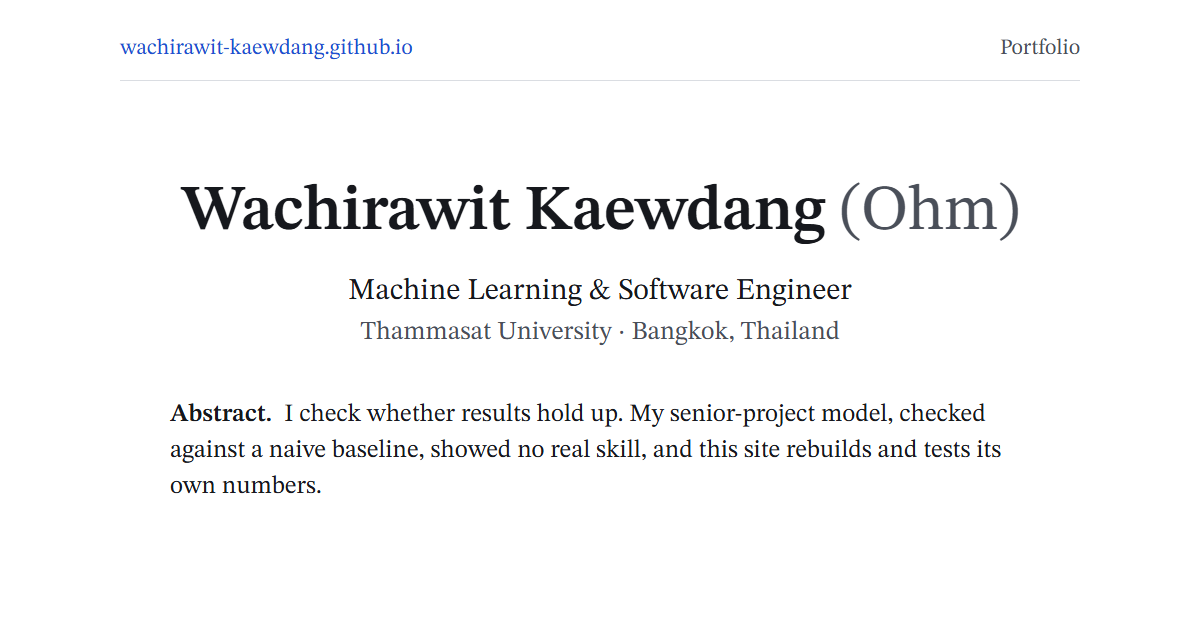
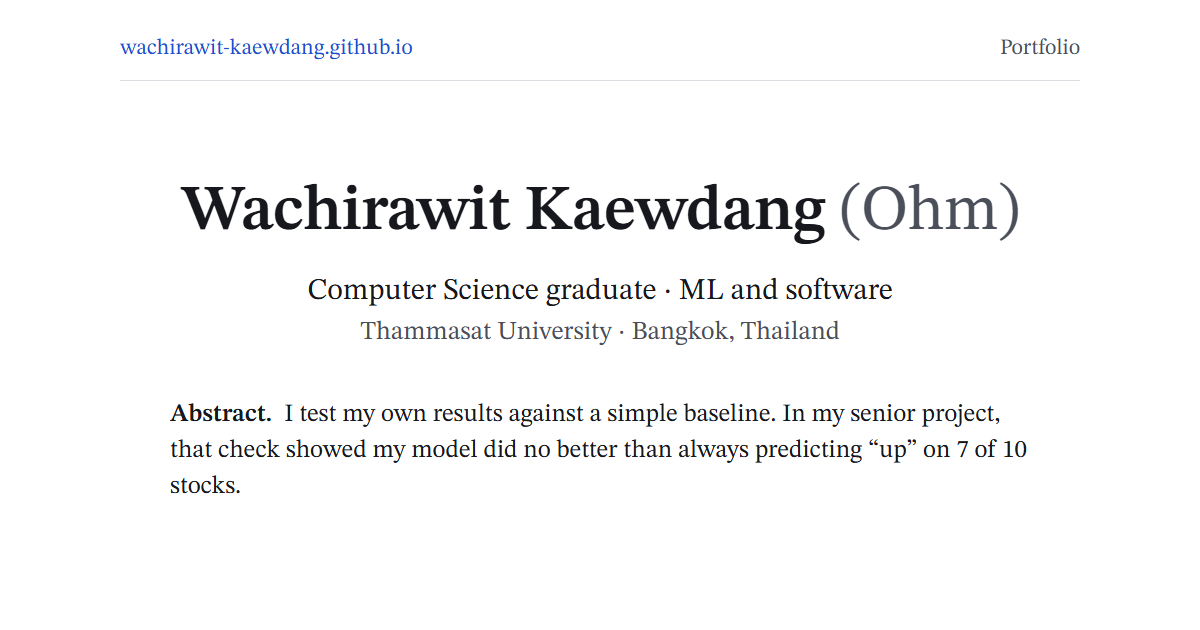
Scan rendered output for phone numbers, lighten project 1, and retitle as a graduate
- Markup is also scanned as a browser shows it; commas count as separators
- npm run resume scans the rendered résumé before printing; render-check scans all of dist/
- The push hook compares a new branch only with the remote it goes to
- GitHub Actions pinned to commit hashes
- Table 1 note cut to one line; architecture bullet left to Appendix A.1
- Appendix refs show their topic; larger project titles
- Role line "Computer Science graduate · ML and software"; share image rebuilt

Changed region(s): [[0.1233, 0.6333, 0.8633, 0.7238], [0.2467, 0.4222, 0.74, 0.4825], [0.1233, 0.754, 0.2775, 0.7841]]

diff --git a/src/data.js b/src/data.js
@@ -1,16 +1,15 @@
 // All site content lives here, so updating the portfolio never means touching layout code.
 // The CS403 numbers come from metrics.js, which computes them from the notebook's outputs.
 import {
-  aucRange, collapsed, lstmF1About, notebookUrl, rankGapRange, sectorCount, source,
-  stockCount, table1Rows,
+  collapsed, notebookUrl, rankGapRange, sectorCount, source, stockCount, table1Rows,
 } from './metrics.js';
 
 const collapsedShare = `${collapsed.length} of ${stockCount}`;
 
 // Prose that points into Appendix A is written as a list of pieces: strings, and refs that the
 // page renders as cross-references, e.g. ['see ', appendix('A.2', 'appendix-a2')].
-// A cross-reference into Appendix A. `about` names what is there, for a screen reader's list of
-// links and for anyone who doesn't read "A.4" as a place.
+// A cross-reference into Appendix A. `about` names what is there, shown after the number, since
+// "A.4" alone tells a reader nothing. A table ref's caption already says what the table holds.
 const appendix = (label, to, about) => ({ label: `Appendix ${label}`, to, about });
 const tableA2 = { label: 'Table A.2', to: 'table-a2', about: 'the always-up check, stock by stock' };
 const tableA3 = { label: 'Table A.3', to: 'table-a3', about: 'every model’s averages' };
@@ -23,7 +22,8 @@ const github = `https://github.com/${username}`;
 export const profile = {
   name: 'Wachirawit Kaewdang',
   nickname: 'Ohm',
-  role: 'Machine Learning & Software Engineer',
+  // A new graduate's honest title; the roles wanted are in `status`.
+  role: 'Computer Science graduate · ML and software',
   location: 'Bangkok, Thailand',
   email: 'wachirawit.kaewdang@gmail.com',
   github,
@@ -50,7 +50,7 @@ export const projects = [
     // Opens the abstract: the skill first, then the catch as proof of it. No metric here.
     finding: [
       'I test my own results against a simple baseline. In my senior project, that check showed my LSTM ' +
-        `did no better than always predicting “up” on ${collapsedShare} stocks, so I reported the honest result (the baseline check, `,
+        `did no better than always predicting “up” on ${collapsedShare} stocks, so I reported the honest result (`,
       appendix('A.4', 'appendix-a4', 'the baseline check'),
       ')',
     ],
@@ -63,23 +63,19 @@ export const projects = [
         '.',
       ],
       note: [
-        'Average F1 over those stocks, on the test set: the last 20% of Jan 2020 – Apr 2025. The LSTM’s threshold ' +
-          `was tuned on it, so its row is if anything optimistic. Across all ${stockCount} stocks it averages ` +
-          `${lstmF1About}, and every model with a recorded ROC-AUC is close to chance, at ${aucRange} where 0.50 is chance (`,
+        'Test set: the last 20% of Jan 2020 – Apr 2025, which the LSTM’s threshold was tuned on. Every model’s averages: ',
         tableA3,
-        '). Source: ',
+        '. Source: ',
         { label: `Project-CS403 @ ${source.commit}`, href: notebookUrl },
         '.',
       ],
       columns: ['Model', 'F1'],
+      // Two rows with one value: the tie shows without bold, which would mark every row.
       rows: table1Rows,
-      // The baseline and the LSTM on the same stocks: the tie the table exists to show.
-      emphasis: 2,
     },
-    // The details (SHAP findings, the baseline check, what I'd change) live in Appendix A; here
-    // only what a reader needs before choosing to go there.
+    // The details (the architecture, SHAP findings, the baseline check, what I'd change) live in
+    // Appendix A; here only what a reader needs before choosing to go there.
     points: [
-      'LSTM + self-attention (3 layers, hidden 128) with Focal Loss, compared with Random Forest, Logistic Regression and a soft-voting ensemble.',
       [
         `SHAP and Pearson correlation ranked features ${rankGapRange} positions apart on average, about what ` +
           'unrelated rankings give, and retraining on each method’s top features did not favour SHAP; see ',

diff --git a/index.html b/index.html
@@ -4,7 +4,7 @@
     <meta charset="UTF-8" />
     <link rel="icon" type="image/svg+xml" href="/favicon.svg" />
     <meta name="viewport" content="width=device-width, initial-scale=1.0" />
-    <meta name="description" content="Wachirawit Kaewdang — Machine Learning & Software Engineer in Bangkok. Time-series ML and full-stack React / Node.js." />
+    <meta name="description" content="Wachirawit Kaewdang — Computer Science graduate in Bangkok, working in machine learning and software. Time-series ML and full-stack React / Node.js." />
     <meta property="og:title" content="Wachirawit Kaewdang — ML & Software Engineer" />
     <meta property="og:description" content="Portfolio of a Bangkok-based ML and software engineer: a stock-prediction model checked against a naive baseline, full-stack React/Node.js work, and more." />
     <meta property="og:type" content="website" />
@@ -12,7 +12,7 @@
     <meta property="og:image" content="%SITE_URL%og-image.png" />
     <meta property="og:image:width" content="1200" />
     <meta property="og:image:height" content="630" />
-    <meta property="og:image:alt" content="Wachirawit Kaewdang (Ohm), Machine Learning &amp; Software Engineer, Thammasat University, Bangkok." />
+    <meta property="og:image:alt" content="Wachirawit Kaewdang (Ohm), Computer Science graduate, ML and software, Thammasat University, Bangkok." />
     <meta name="twitter:card" content="summary_large_image" />
     <meta name="theme-color" content="#ffffff" media="(prefers-color-scheme: light)" />
     <meta name="theme-color" content="#141415" media="(prefers-color-scheme: dark)" />

diff --git a/src/App.jsx b/src/App.jsx
@@ -177,7 +177,9 @@ function Prose({ pieces }) {
       <ExtLink key={i} href={piece.href}>{piece.label}</ExtLink>
     ) : (
       <Ref key={i} route={APPENDIX} to={piece.to} name={piece.about && `${piece.label}, ${piece.about}`} print={`${profile.site}${APPENDIX}/${piece.to}`}>
-        {piece.label}
+        {/* An appendix section's topic is shown, since "A.4" alone says nothing; a table's
+            caption already says what it holds, so only screen readers hear its topic. */}
+        {piece.about && piece.label.startsWith('Appendix') ? `${piece.label}, ${piece.about}` : piece.label}
       </Ref>
     ));
 }
@@ -244,7 +246,7 @@ function Project({ project, index }) {
       <p>{project.summary}</p>
       {project.caseStudy && (
         <p className="seealso">
-          Full write-up in <a href={project.caseStudy}>Appendix A</a>: the method, the baseline
+          Full case study in <a href={project.caseStudy}>Appendix A</a>: the method, the baseline
           check and what I would change.
         </p>
       )}
@@ -303,7 +305,7 @@ function Skills() {
       <SectionHeading id="skills" />
       <p>
         Each group starts with what the projects in{' '}
-        <Ref to="projects">§{sectionNumber('projects')}</Ref> show, then what I have also used.
+        <Ref to="projects">§{sectionNumber('projects')} Projects</Ref> show, then what I have also used.
       </p>
       <dl className="skills">
         {skills.map((s) => {

diff --git a/src/index.css b/src/index.css
@@ -86,7 +86,6 @@ h1, h2, h3, h4 { font-weight: 600; line-height: 1.25; text-wrap: balance; }
   .wide { position: absolute; width: 1px; height: 1px; overflow: hidden; clip-path: inset(50%); white-space: nowrap; }
 }
 .ext { width: 0.6em; height: 0.6em; margin-left: 0.2em; vertical-align: 0.12em; }
-.results tr.emphasis th, .results tr.emphasis td { font-weight: 600; }
 /* The recruiter's summary: two label-and-answer lines under the title, no symbols. */
 .glance { margin: 0 0 1.5rem; display: grid; gap: 0.2rem; }
 .glance div { display: grid; grid-template-columns: 7.5rem 1fr; gap: 0 0.75rem; }
@@ -161,8 +160,8 @@ h1, h2, h3, h4 { font-weight: 600; line-height: 1.25; text-wrap: balance; }
 .section { padding-top: 2.25rem; }
 .section h2 { font-size: 1.4rem; margin: 0 0 1rem; }
 .subsection { padding: 0.75rem 0 1.25rem; border-radius: 2px; }
-.subsection + .subsection { border-top: 1px solid var(--hair); padding-top: 1.75rem; }
-.subsection h3 { font-size: 1.15rem; margin: 0 0 0.25rem; }
+.subsection + .subsection { border-top: 1px solid var(--hair); padding-top: 2.25rem; margin-top: 0.75rem; }
+.subsection h3 { font-size: 1.3rem; margin: 0 0 0.25rem; }
 .context { font-style: italic; color: var(--ink-soft); margin-bottom: 0.75rem; }
 .meta { margin: 0.25rem 0 0; font-size: 1rem; color: var(--ink-soft); }
 .meta em { color: var(--ink); }

diff --git a/src/paper.jsx b/src/paper.jsx
@@ -61,7 +61,7 @@ export function LinkLine({ className, children }) {
 // A booktabs table with its numbered caption above, as in a paper. The first column is the
 // row label; the rest are figures, right-aligned in tabular numerals. An optional note sits
 // under the bottom rule for sources and the test setup.
-export function NumberedTable({ number, caption, note, columns, rows, emphasis = 0 }) {
+export function NumberedTable({ number, caption, note, columns, rows }) {
   const frame = useRef(null);
   const [scrolls, setScrolls] = useState(false);
   useEffect(() => {
@@ -93,8 +93,8 @@ export function NumberedTable({ number, caption, note, columns, rows, emphasis =
           </tr>
         </thead>
         <tbody>
-          {rows.map(([label, ...values], i) => (
-            <tr key={label} className={i < emphasis ? 'emphasis' : undefined}>
+          {rows.map(([label, ...values]) => (
+            <tr key={label}>
               <th scope="row">{label}</th>
               {values.map((v, j) => (
                 <td key={j}>{v}</td>

diff --git a/og/og-image.html b/og/og-image.html
@@ -47,11 +47,11 @@
     <div class="head"><span class="link">wachirawit-kaewdang.github.io</span><span>Portfolio</span></div>
     <main>
       <h1>Wachirawit Kaewdang <span>(Ohm)</span></h1>
-      <p class="author">Machine Learning &amp; Software Engineer</p>
+      <p class="author">Computer Science graduate · ML and software</p>
       <p class="affil">Thammasat University · Bangkok, Thailand</p>
       <p class="abstract">
-        <b>Abstract.</b> I check whether results hold up. My senior-project model, checked against a
-        naive baseline, showed no real skill, and this site rebuilds and tests its own numbers.
+        <b>Abstract.</b> I test my own results against a simple baseline. In my senior project, that
+        check showed my model did no better than always predicting “up” on 7 of 10 stocks.
       </p>
     </main>
   </body>

diff --git a/src/ProjectCS403.jsx b/src/ProjectCS403.jsx
@@ -424,7 +424,8 @@ export default function ProjectCS403() {
           {stockCount} stocks, only a little better than random (0.5). Predicting 3-day direction from these
           features is close to a coin flip, and on the {collapsed.length} stocks that collapsed neither score
           shows any skill (<ARef to="figure-a3">Figure A.3</ARef>). SHAP still gives a rough view of what
-          the model relied on, within the limits in A.2.
+          the model relied on, within the limits set out in{' '}
+          <ARef to={sectionId(2)}>A.2, SHAP and correlation disagree</ARef>.
         </p>
         <NumberedTable
           number="A.3"
